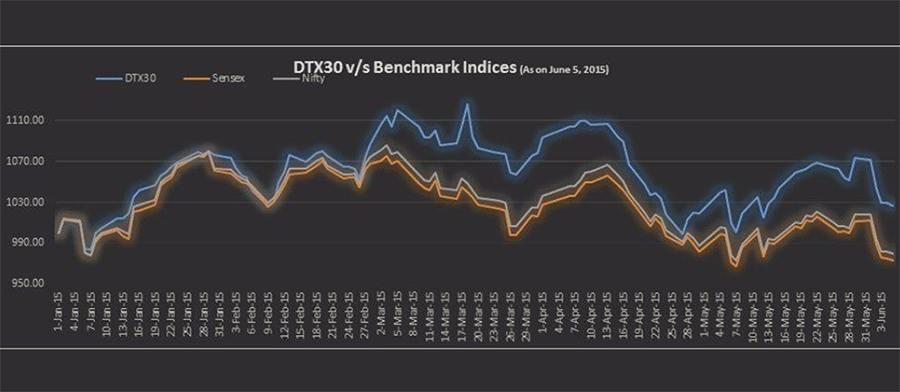
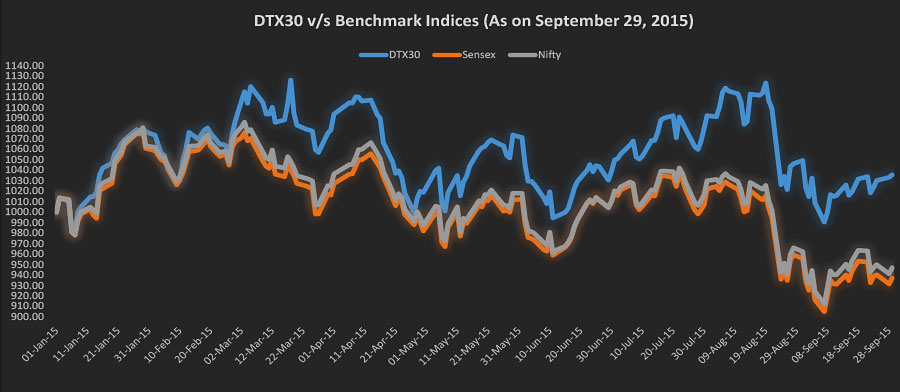
Changes in the Magzine website & DTX30 chart & weighage changes

Changed region(s): [[0.0, 0.0, 1.0, 1.0], [0.0, 0.0, 0.0311, 0.0306]]

diff --git a/dtx30/view/home.tpl.php b/dtx30/view/home.tpl.php
@@ -131,79 +131,79 @@ if (!isset($_SESSION['_loggedIn'])) {
                   <tr class="odd">
                     <td>Asian Paints</td>
                     <td>FMCG</td>
-                    <td>1</td>
-                    <td>1</td>
+                    <td>1.1</td>
+                    <td>1.1</td>
                   </tr>
                   <tr class="even">
                     <td>Axis Bank</td>
                     <td>Banking</td>
-                    <td>1</td>
-                    <td>1.1</td>
+                    <td>1.2</td>
+                    <td>1.2</td>
                   </tr>
                   <tr class="odd">
                     <td>Bajaj Auto</td>
                     <td>Automobile</td>
                     <td>1</td>
-                    <td>0.9</td>
+                    <td>1.1</td>
                   </tr>
                   <tr class="even">
                     <td>Bharat Forging</td>
                     <td>Auto Ancillary</td>
-                    <td>1</td>
-                    <td>1.2</td>
+                    <td>1.1</td>
+                    <td>1.1</td>
                   </tr>
                   <tr class="odd">
                     <td>Castrol India</td>
                     <td>Oil/Variants</td>
-                    <td>1</td>
-                    <td>0.9</td>
+                    <td>0.8</td>
+                    <td>0.8</td>
                   </tr>
                   <tr class="even">
                     <td>CESC</td>
                     <td>Power</td>
-                    <td>1</td>
-                    <td>0.8</td>
+                    <td>0.7</td>
+                    <td>0.6</td>
                   </tr>
                   <tr class="odd">
                     <td>Cipla</td>
                     <td>Pharmaceuticals</td>
                     <td>1</td>
-                    <td>0.9</td>
+                    <td>1.1</td>
                   </tr>
                   <tr class="even">
                     <td>HCL Technologies</td>
                     <td>IT</td>
-                    <td>1</td>
-                    <td>1</td>
+                    <td>0.8</td>
+                    <td>0.8</td>
                   </tr>
                   <tr class="odd">
                     <td>HDFC Bank</td>
                     <td>Banking</td>
-                    <td>1</td>
-                    <td>1</td>
+                    <td>1.1</td>
+                    <td>1.2</td>
                   </tr>
                   <tr class="even">
                     <td>Hero MotoCorp</td>
                     <td>Automobile</td>
                     <td>1</td>
-                    <td>0.9</td>
+                    <td>0.8</td>
                   </tr>
                   <tr class="odd">
                     <td>Hindustan Unilever</td>
                     <td>FMCG</td>
-                    <td>1</td>
-                    <td>1</td>
+                    <td>1.1</td>
+                    <td>1.1</td>
                   </tr>
                   <tr class="even">
                     <td>HDFC</td>
                     <td>Finance</td>
                     <td>1</td>
-                    <td>1</td>
+                    <td>1.2</td>
                   </tr>
                   <tr class="odd">
                     <td>IndusInd Bank</td>
                     <td>Banking</td>
-                    <td>1</td>
+                    <td>1.1</td>
                     <td>1.1</td>
                   </tr>
                   <tr class="even">
@@ -215,7 +215,7 @@ if (!isset($_SESSION['_loggedIn'])) {
                   <tr class="odd">
                     <td>Larsen & Turbo</td>
                     <td>Engineering</td>
-                    <td>1</td>
+                    <td>1.1</td>
                     <td>1.1</td>
                   </tr>
                 </table>
@@ -232,91 +232,91 @@ if (!isset($_SESSION['_loggedIn'])) {
                     <td>Lupin</td>
                     <td>Pharmaceuticals</td>
                     <td>1</td>
-                    <td>1</td>
+                    <td>1.1</td>
                   </tr>
                   <tr class="even">
                     <td>Mahindra & Mahindra</td>
                     <td>Automobile</td>
                     <td>1</td>
-                    <td>1</td>
+                    <td>0.9</td>
                   </tr>
                   <tr class="odd">
                     <td>Maruti Suzuki India</td>
                     <td>Automobile</td>
-                    <td>1</td>
-                    <td>1</td>
+                    <td>1.1</td>
+                    <td>1.1</td>
                   </tr>
                   <tr class="even">
                     <td>Page Industires</td>
                     <td>Textile</td>
-                    <td>1</td>
-                    <td>1</td>
+                    <td>1.1</td>
+                    <td>1.1</td>
                   </tr>
                   <tr class="odd">
                     <td>Persistent Technologies</td>
                     <td>IT</td>
-                    <td>1</td>
-                    <td>0.9</td>
+                    <td>0.7</td>
+                    <td>0.7</td>
                   </tr>
                   <tr class="even">
                     <td>Pidellite Industries</td>
                     <td>FMCG</td>
-                    <td>1</td>
-                    <td>1</td>
+                    <td>1.1</td>
+                    <td>1.1</td>
                   </tr>
                   <tr class="odd">
                     <td>Repco Home Finance</td>
                     <td>Finance</td>
-                    <td>1</td>
-                    <td>1</td>
+                    <td>0.9</td>
+                    <td>0.8</td>
                   </tr>
                   <tr class="even">
                     <td>State Bank Of India</td>
                     <td>Banking</td>
                     <td>1</td>
-                    <td>1</td>
+                    <td>0.8</td>
                   </tr>
                   <tr class="odd">
                     <td>Stride Arcolab</td>
                     <td>Pharmaceuticals</td>
-                    <td>1</td>
-                    <td>1</td>
+                    <td>1.1</td>
+                    <td>1.1</td>
                   </tr>
                   <tr class="even">
                     <td>Sun Pharmaceuticals Industries</td>
                     <td>Pharmaceuticals</td>
                     <td>1</td>
-                    <td>1</td>
+                    <td>1.1</td>
                   </tr>
                   <tr class="odd">
                     <td>Tata Motors</td>
                     <td>Automobile</td>
-                    <td>1</td>
-                    <td>1</td>
+                    <td>0.9</td>
+                    <td>0.7</td>
                   </tr>
                   <tr class="even">
                     <td>Tech Mahindra</td>
                     <td>IT</td>
-                    <td>1</td>
-                    <td>0.9</td>
+                    <td>0.7</td>
+                    <td>0.7</td>
                   </tr>
                   <tr class="odd">
                     <td>UltraTech Cement</td>
                     <td>Cement</td>
-                    <td>1</td>
+                    <td>1.1</td>
                     <td>1.1</td>
                   </tr>
                   <tr class="even">
                     <td>VA Tech Wabag</td>
                     <td>Water Treatment</td>
-                    <td>1</td>
                     <td>1.1</td>
+                    <td>1.2</td>
                   </tr>
                   <tr class="odd">
                     <td>Wabco India</td>
                     <td>Auto Ancillary</td>
-                    <td>1</td>
                     <td>1.1</td>
+                    <td>1.2</td>
                   </tr>
                 </table>
             </div>

diff --git a/magazine/view/home.tpl.php b/magazine/view/home.tpl.php
@@ -59,6 +59,10 @@ require_once _CONST_VIEW_PATH . 'header.php';
 		 <?php }
 ?>
                    <li><a href="#ask_dt" class="btn-download">Ask DT</a></li>
+<?php if ($_SESSION['_loggedIn'] != 1) {?>
+                   <li><a class="btn-download" onclick="load_popup(1);" href="javascript:void(0);">Free Trial Subscription</a></li>
+     <?php }
+?>
                   </ul>
                  <!-- </div> -->
             </div>
@@ -322,6 +326,7 @@ if ($_SESSION['_loggedIn'] == 1) {
 	$complete_issue_list = '';
 	if (is_array($this->_data['completeIssues'])) {
 		$issue_array = array(
+			'october2015' => array('issue' => 'October 2015 issue', 'issue_url' => '/magazine/october2015', 'issue_cover_img' => 'view/october2015/cover.jpg'),
 			'september2015' => array('issue' => 'September 2015 issue', 'issue_url' => '/magazine/september2015', 'issue_cover_img' => 'view/september2015/cover.jpg'),
 			'august2015' => array('issue' => 'August 2015 issue', 'issue_url' => '/magazine/august2015', 'issue_cover_img' => 'view/august2015/cover.jpg'),
 		);
@@ -347,6 +352,7 @@ if ($_SESSION['_loggedIn'] == 1) {
 		}
 	}
 	$partial_issue_array = array(
+		'october2015' => array('issue' => 'October 2015 issue', 'issue_url' => '/sneak-preview/october2015', 'issue_cover_img' => 'view/partial-october2015/cover.jpg'),
 		'september2015' => array('issue' => 'September 2015 issue', 'issue_url' => '/sneak-preview/september2015', 'issue_cover_img' => 'view/partial-september2015/cover.jpg'),
 		'august2015' => array('issue' => 'August 2015 issue', 'issue_url' => '/sneak-preview/august2015', 'issue_cover_img' => 'view/partial-august2015/cover.jpg'),
 		'july2015' => array('issue' => 'July 2015 issue', 'issue_url' => '/sneak-preview/july2015', 'issue_cover_img' => 'view/partial-july2015/cover.jpg'),
@@ -355,6 +361,9 @@ if ($_SESSION['_loggedIn'] == 1) {
 		'april2015' => array('issue' => 'April 2015 issue', 'issue_url' => '/sneak-preview/april2015', 'issue_cover_img' => 'view/partial-april2015/cover.jpg'),
 		'march2015' => array('issue' => 'March 2015 issue', 'issue_url' => '/sneak-preview/march2015', 'issue_cover_img' => 'view/partial-march2015/cover.jpg'),
 	);
+	if ($complete_issue_list == '') {
+		$register_text = '<a href="http://magazine.dalaltimes.com#registration_sub" style="text-decoration:none;"><h5 style="color:#FFFFFF;font-size:18px;">This is a partial copy. To get the latest issue or to read full version <span class="reviewer-name" style="color:#428bca">SUBSCRIBE NOW</span></h5></a>';
+	}
 	$partial_issue_list = '';
 	$this->_data['partialIssues'] = array_reverse($this->_data['partialIssues']);
 	for ($i = 0; $i < count($this->_data['partialIssues']); $i++) {
@@ -392,6 +401,9 @@ if ($_SESSION['_loggedIn'] == 1) {
                 <a class="carousel-control right" href="#myCarousel1" data-slide="next"><i class="fa fa-angle-right"></i></a>
               </div>
             </div>
+          </div>
+          <div class="row text-center">
+            <?php echo $register_text;?>
           </div>
         </div>
       </div> <!-- /.trans-bg -->

diff --git a/magazine/model/magazineModel.php b/magazine/model/magazineModel.php
@@ -833,7 +833,7 @@ class magazineModel extends Database {
 	protected function getAboutSection() {
 		return array('img' => 'public/images/magazine_cover.jpg', 'content' => '<p>Dalal Times Magazine, a monthly publication, takes into account events, news and views of an entire month and helps translate them in to its impact on the share market.</p>
           <p>We leverage this form of media to reach out to our readers who not only constitute of investors and traders but also keen individuals who desire to benefit from our teams research and analytics expertise in equity market.</p>
-          <p>Our aim is to keep you ahead of the market fluctuations and stay true to the magazine’s motto ‘Voice Of The Indian Stock Market’.</p>');
+          <p>Our aim is to keep you ahead of the market fluctuations and stay true to the magazine’s motto ‘Voice Of The Indian Stock Market’.</p>', );
 	}
 
 	protected function getWhyDtSection() {
